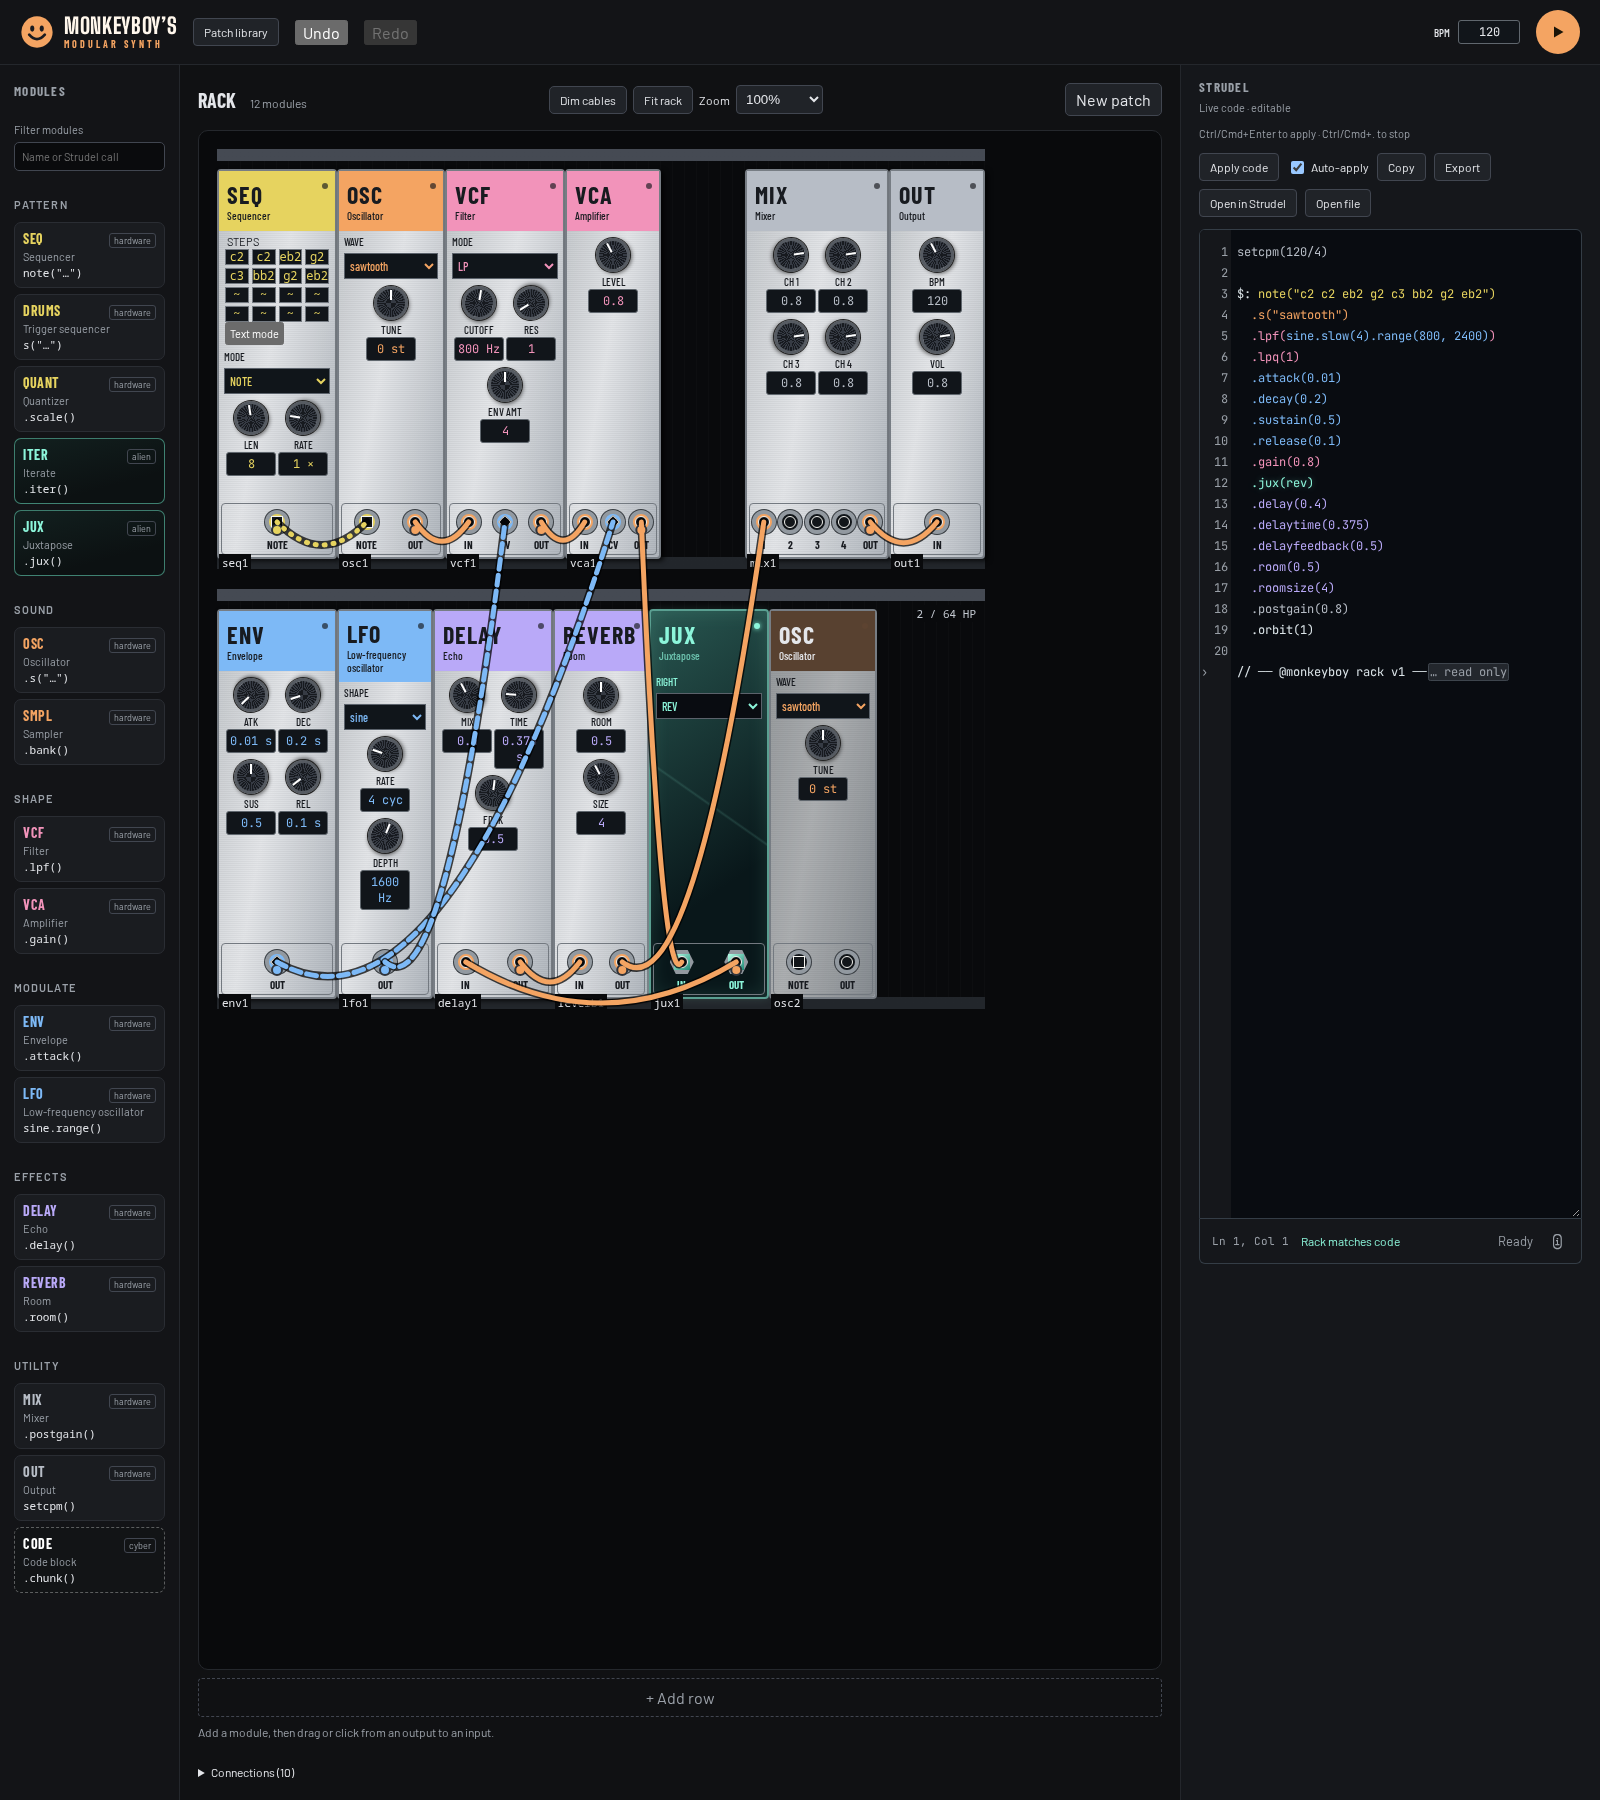
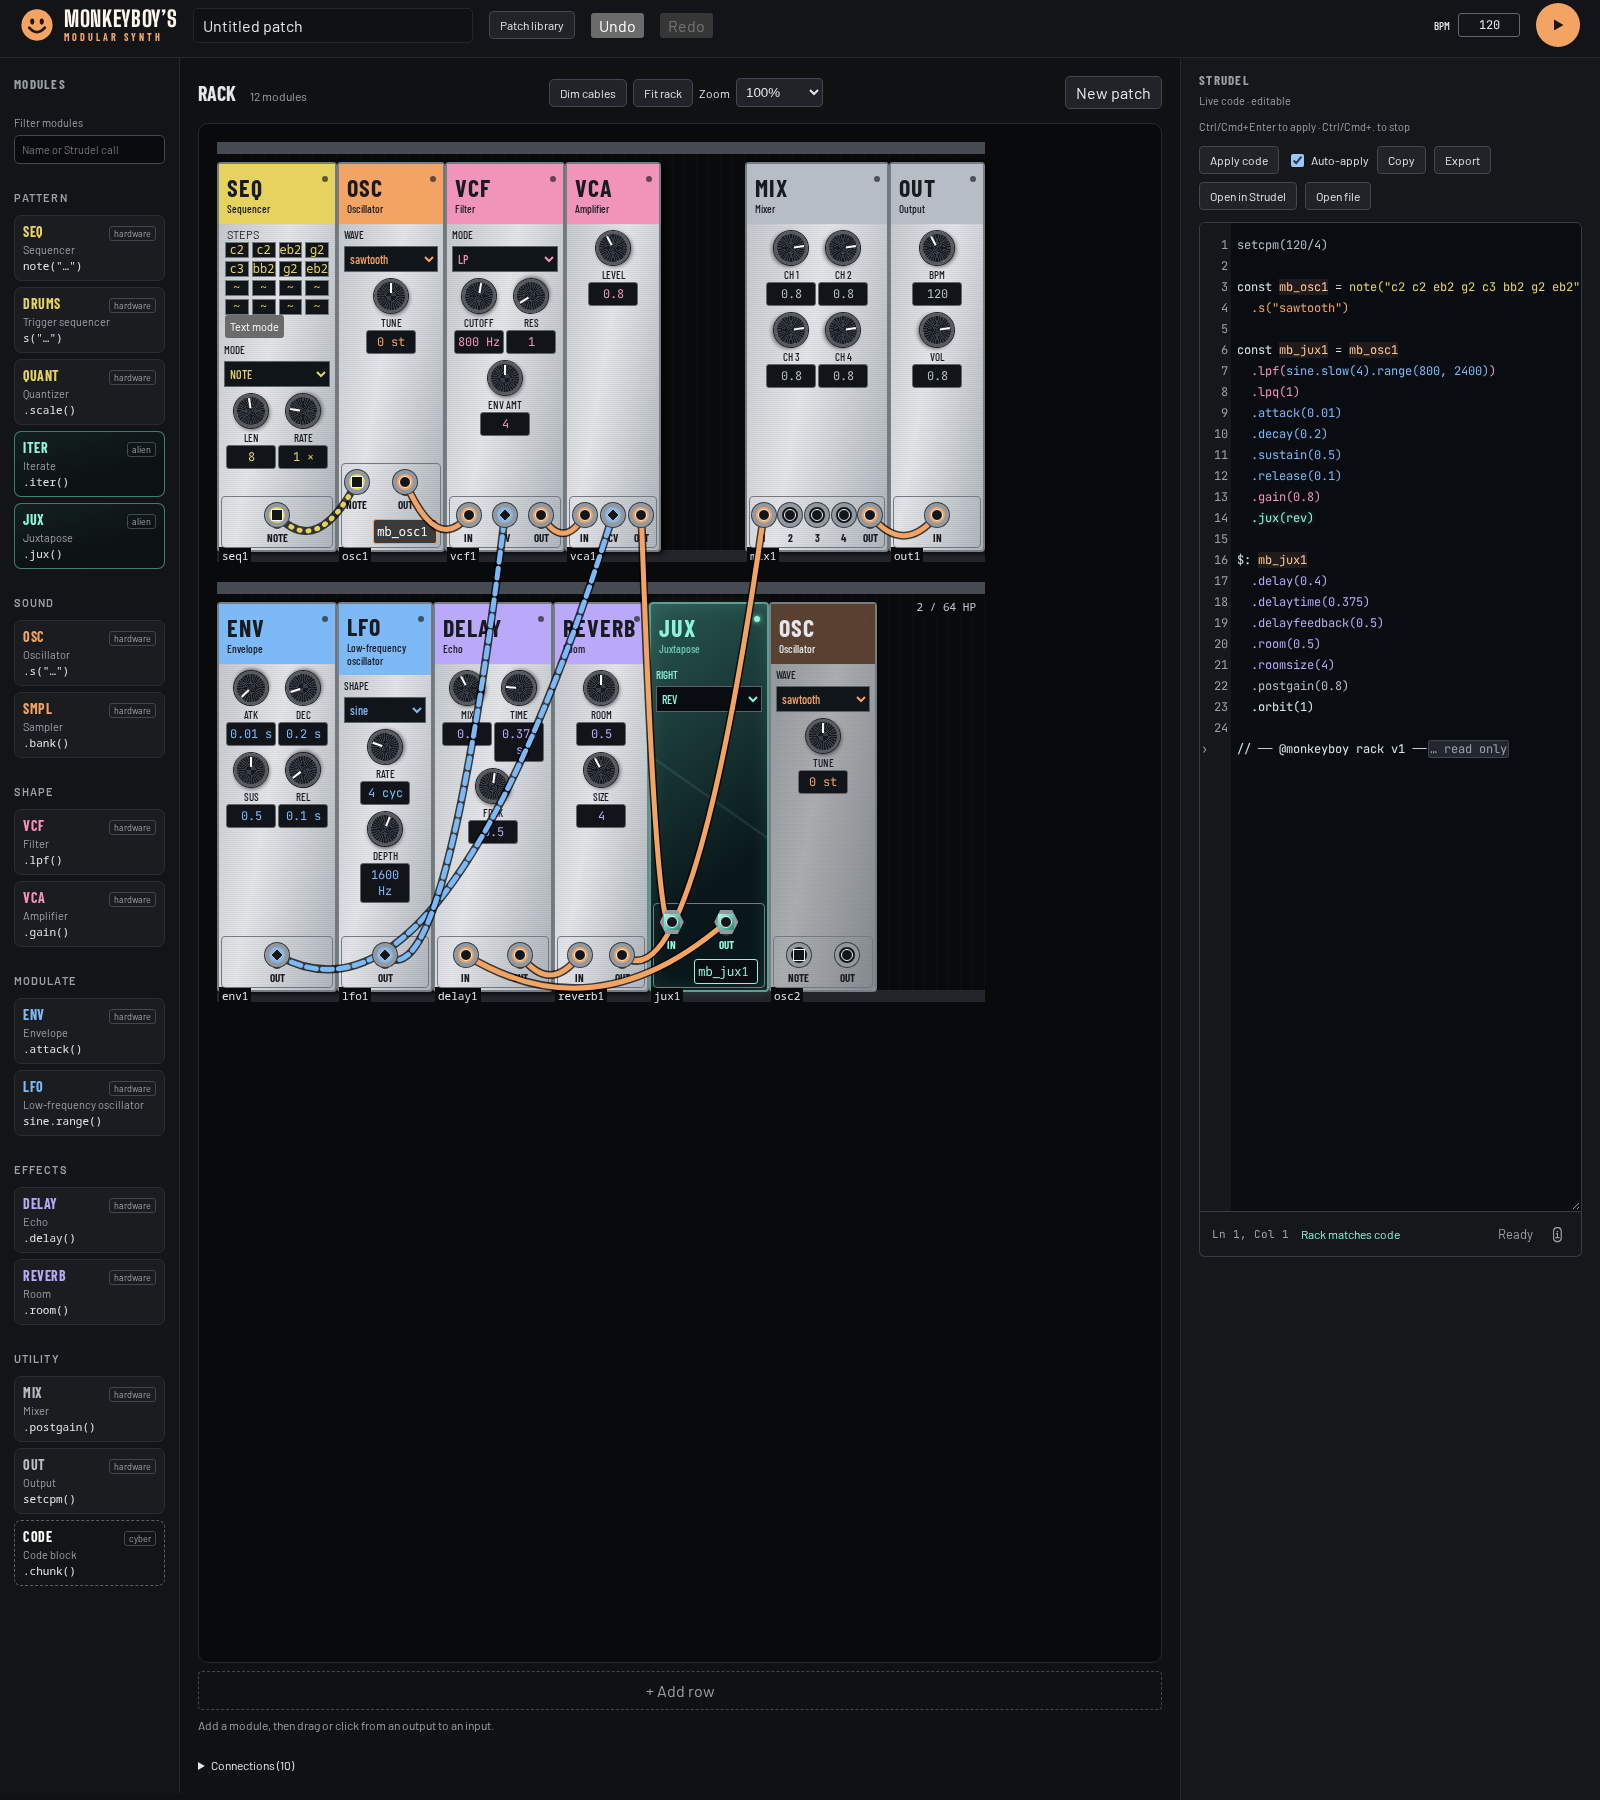
Keep connected jacks above cable paths

diff --git a/src/looks/looks.css b/src/looks/looks.css
@@ -1,7 +1,6 @@
 /* Every panel uses the same catalog width and control tree. */
 .module-panel {
   --panel-ink: #ecece9;
-  isolation: isolate;
 }
 .look-instrument .module-header {
   background: var(--category);
@@ -10,13 +9,12 @@
 .look-instrument .module-header small {
   color: inherit;
 }
-/* Dim the surface, not the text or controls. The isolated layer stays above
-   the panel paint and below its children, including on the light looks. */
+/* Positioned panel content paints above this first child. Keep panels out of
+   stacking contexts so their jacks can stay above the cable SVG. */
 .module-panel.inactive::before {
   content: '';
   position: absolute;
   inset: 0;
-  z-index: -1;
   background: #090a0c40;
   border-radius: inherit;
   pointer-events: none;
@@ -50,9 +48,11 @@
   order: 0;
 }
 .module-panel .module-controls {
+  position: relative;
   order: 2;
 }
 .module-panel .patch-box {
+  position: relative;
   order: 3;
 }
 .module-panel[data-jacks='top'] .patch-box {
@@ -393,9 +393,6 @@
   opacity: 0;
   background: var(--category);
   box-shadow: 0 0 9px var(--category);
-}
-.family-alien {
-  isolation: isolate;
 }
 @media (prefers-reduced-motion: reduce) {
   .activity-glow {

diff --git a/docs/rack-visuals-verification.md b/docs/rack-visuals-verification.md
@@ -7,9 +7,11 @@ Vite and headless Chromium 156.0.8078.4. The
 ## Deterministic gate
 
 `npm ci` and `npm run check` passed: formatting, skill integrity, lint,
-846 Vitest tests, 40 guardrails, TypeScript and production build. No catalog,
+861 Vitest tests, 40 guardrails, TypeScript and production build. No catalog,
 generator, reader, executable-code or saved-layout format changes were needed.
 Existing look round trips still check source preservation and exact saved identity.
+The full gate and browser suite passed again after rebasing onto `0ba7265`;
+the captures include the patch-name and module-menu changes from that base.
 
 ## Browser observations
 
@@ -38,6 +40,13 @@ It writes screenshots and JSON results and never starts audio.
 - Native output/input clicks connect the isolated OSC to MIX: its surface and
   band brighten and “not connected to OUT” leaves its accessible name. Removing
   that cable restores the dimming and accessible state.
+- Sol review found that panel isolation trapped connected jacks beneath the
+  cable SVG. The new native regression first failed at `osc1:out` with
+  “cable path intercepts pointer events”. The dimming surface now paints before
+  positioned panel content without isolating any panel. Connected Hardware and
+  Alien outputs accept fan-out, and an occupied MIX input supports Cancel,
+  Replace and exact-source Undo. This checks actual jack-center clicks without
+  forced input or Dim cables hiding the problem.
 - Native selection fades only unrelated cables. Hovering VCF overrides a selected
   SEQ; leaving VCF restores SEQ emphasis. Dim cables reduces every cable to 8%
   opacity and removes cable hit interception. Toggling and focus leave the exact

diff --git a/docs/standards.md b/docs/standards.md
@@ -239,6 +239,14 @@ valid jack. Focused regressions cover imported CV refusal, accepted replacement
 and saved identity; the [separate browser probe](interaction-verification.md#cable-refusal-preview-76)
 covers blocked styling, local hover/focus reasons and conversion consent.
 
+The #85/#86/#96/#88 [rack visual acceptance](rack-visuals-verification.md)
+checks panel contrast, signal markings and cable fading in Chromium. Its native
+connected-jack regression rejects a panel stacking context that lets cable paths
+intercept fan-out and occupied-input replacement. The same browser script runs
+locally for this feature; like the existing browser suites, it remains outside
+shared CI until Chromium provisioning is added. Static checks do not establish
+pointer hit priority.
+
 The #77 [common-call regressions](../src/reader/aliases.test.ts) separately check
 source bytes, complete saved rack identity and real Strudel events for lowercase
 scale roots, above-unity gain and all sixteen short ENV aliases. Saved-file
